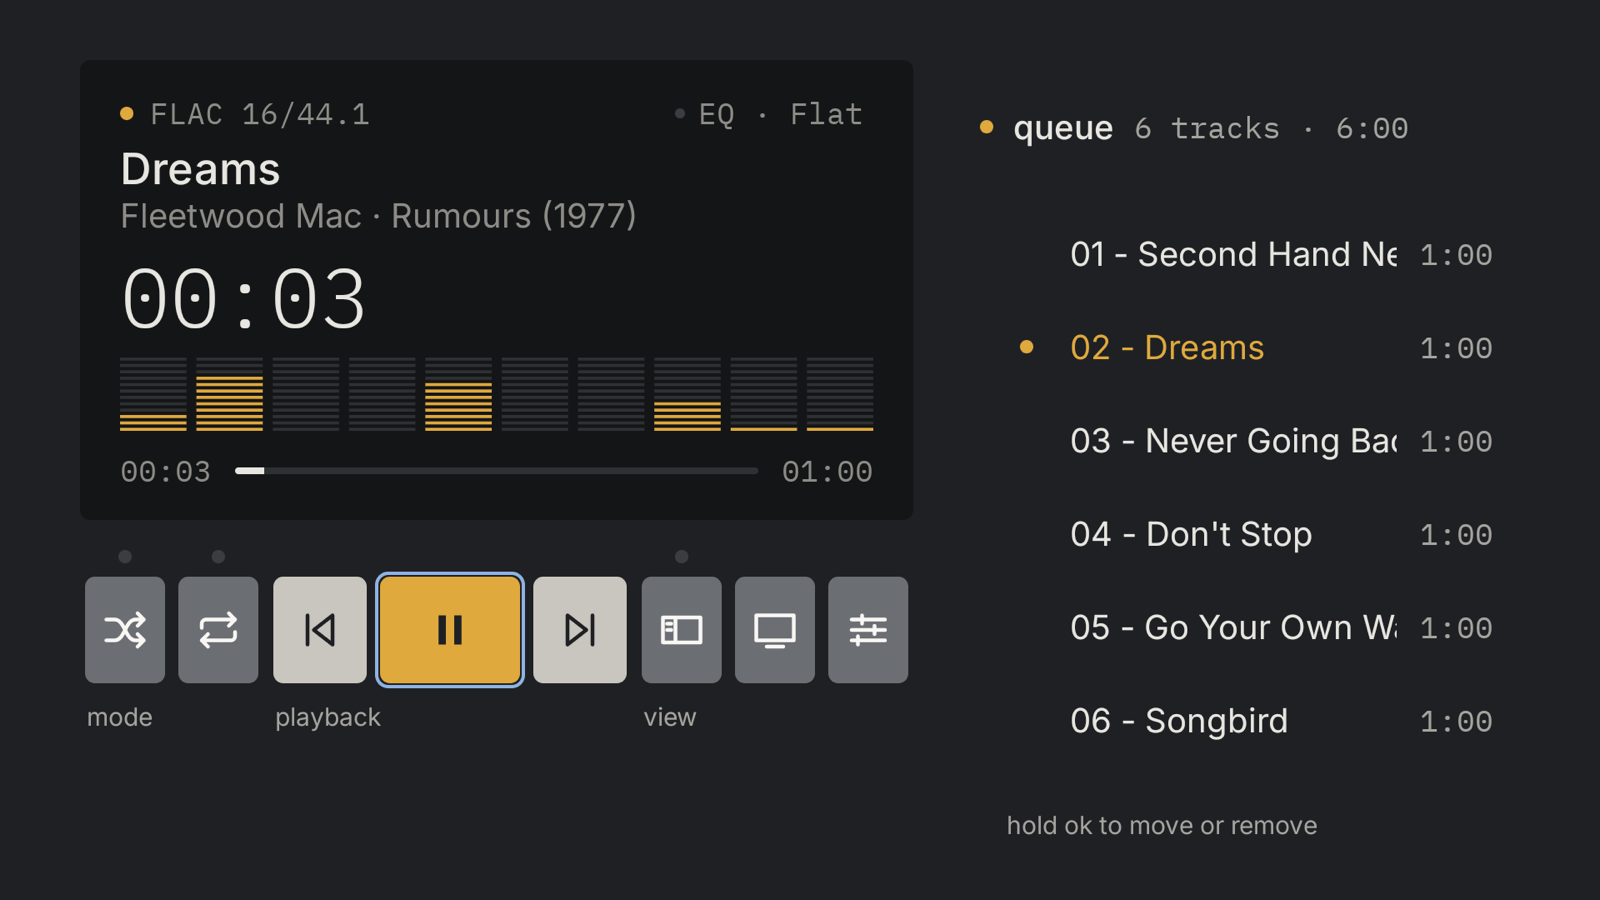
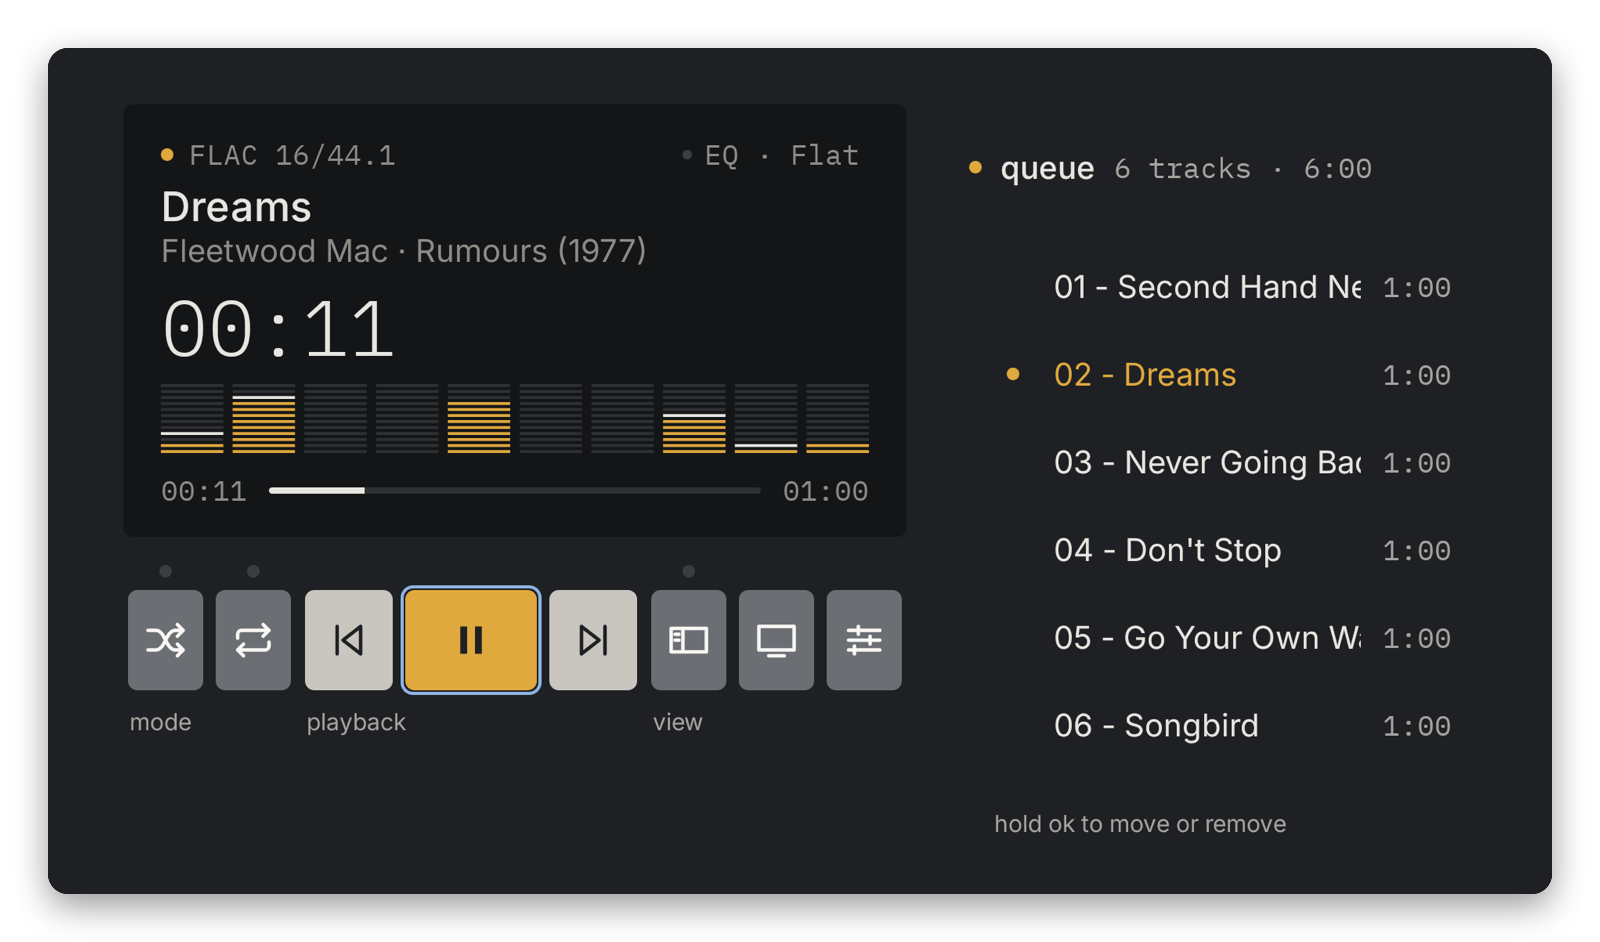
Android TV screenshots: folders, equalizer, ambient faces and skins
scripts/make-tv-images.swift frames 1920x1080 captures of the TV app as
the Mac images are framed, for the README and (as WebP) the site.

diff --git a/scripts/make-tv-images.swift b/scripts/make-tv-images.swift
@@ -1,0 +1,91 @@
+// README and site images for NuVa on Android TV, from 1920×1080 screenshots of the app
+// (`adb exec-out screencap -p > <name>.png` on a TV or the Android TV emulator).
+// Usage, from the repository root:
+//   swift scripts/make-tv-images.swift <screenshots-folder> docs/screenshots
+// The folder holds queue, folders, equalizer, display, spectrum, needles, valves, orange and phosphor (.png).
+// The top-right readout of the needles, valves and display faces (the server's address) is painted over:
+// it would show a test server's.
+import AppKit
+
+let args = CommandLine.arguments
+let snaps = URL(fileURLWithPath: args[1])
+let out = URL(fileURLWithPath: args.count > 2 ? args[2] : "docs/screenshots")
+try? FileManager.default.createDirectory(at: out, withIntermediateDirectories: true)
+
+func load(_ name: String) -> NSImage {
+    NSImage(contentsOf: snaps.appendingPathComponent("\(name).png"))!
+}
+
+/// Draws on a transparent canvas with a top-left origin and writes the PNG.
+func canvas(_ size: CGSize, _ name: String, draw: () -> Void) {
+    let rep = NSBitmapImageRep(bitmapDataPlanes: nil, pixelsWide: Int(size.width), pixelsHigh: Int(size.height),
+                               bitsPerSample: 8, samplesPerPixel: 4, hasAlpha: true, isPlanar: false,
+                               colorSpaceName: .deviceRGB, bytesPerRow: 0, bitsPerPixel: 0)!
+    let ctx = NSGraphicsContext(bitmapImageRep: rep)!
+    NSGraphicsContext.saveGraphicsState()
+    let cg = ctx.cgContext
+    cg.translateBy(x: 0, y: size.height)
+    cg.scaleBy(x: 1, y: -1)
+    NSGraphicsContext.current = NSGraphicsContext(cgContext: cg, flipped: true)
+    draw()
+    NSGraphicsContext.restoreGraphicsState()
+    try! rep.representation(using: .png, properties: [:])!.write(to: out.appendingPathComponent(name))
+    print(name)
+}
+
+/// A TV screen: the screenshot with rounded corners and a soft shadow, as the Mac images' windows.
+/// `hideReadout` covers an ambient face's top-right readout with the face's own background.
+func screen(_ image: NSImage, in rect: CGRect, radius: Double, hideReadout: Bool = false) {
+    let path = NSBezierPath(roundedRect: rect, xRadius: radius, yRadius: radius)
+    NSGraphicsContext.saveGraphicsState()
+    let shadow = NSShadow()
+    shadow.shadowColor = NSColor(white: 0, alpha: 0.4)
+    shadow.shadowBlurRadius = 36
+    shadow.shadowOffset = NSSize(width: 0, height: -12)
+    shadow.set()
+    NSColor.black.setFill()
+    path.fill()
+    NSGraphicsContext.restoreGraphicsState()
+    NSGraphicsContext.saveGraphicsState()
+    path.addClip()
+    image.draw(in: rect, from: .zero, operation: .sourceOver, fraction: 1, respectFlipped: true, hints: nil)
+    if hideReadout {
+        // A patch of empty background from just above the readout (NSImage rects start at the bottom).
+        let k = rect.width / 1920
+        image.draw(in: CGRect(x: rect.minX + 1300 * k, y: rect.minY + 240 * k, width: 460 * k, height: 76 * k),
+                   from: CGRect(x: 1300, y: 1080 - 236, width: 460, height: 76),
+                   operation: .copy, fraction: 1, respectFlipped: true, hints: nil)
+    }
+    NSGraphicsContext.restoreGraphicsState()
+}
+
+let margin = 48.0
+
+/// One screen, 1600 wide.
+func single(_ name: String, _ file: String) {
+    let w = 1600.0 - 2 * margin, h = w * 9 / 16
+    canvas(CGSize(width: 1600, height: h + 2 * margin), file) {
+        screen(load(name), in: CGRect(x: margin, y: margin, width: w, height: h), radius: 20)
+    }
+}
+
+/// Screens in a grid, 1600 wide.
+func grid(_ names: [String], columns: Int, _ file: String, hideReadout: Set<String> = []) {
+    let images = names.map(load)
+    let gap = 40.0
+    let w = (1600 - 2 * margin - gap * Double(columns - 1)) / Double(columns), h = w * 9 / 16
+    let rows = (images.count + columns - 1) / columns
+    canvas(CGSize(width: 1600, height: 2 * margin + Double(rows) * h + Double(rows - 1) * gap), file) {
+        for (i, (name, img)) in zip(names, images).enumerated() {
+            let x = margin + Double(i % columns) * (w + gap), y = margin + Double(i / columns) * (h + gap)
+            screen(img, in: CGRect(x: x, y: y, width: w, height: h), radius: 14, hideReadout: hideReadout.contains(name))
+        }
+    }
+}
+
+single("queue", "tv.png")
+single("folders", "tv-folders.png")
+single("equalizer", "tv-equalizer.png")
+grid(["needles", "valves", "display", "spectrum"], columns: 2, "tv-ambient.png",
+     hideReadout: ["needles", "valves", "display"])
+grid(["orange", "phosphor"], columns: 1, "tv-skins.png")
